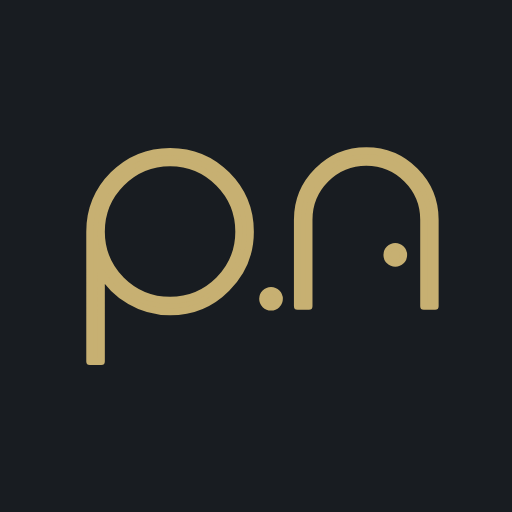
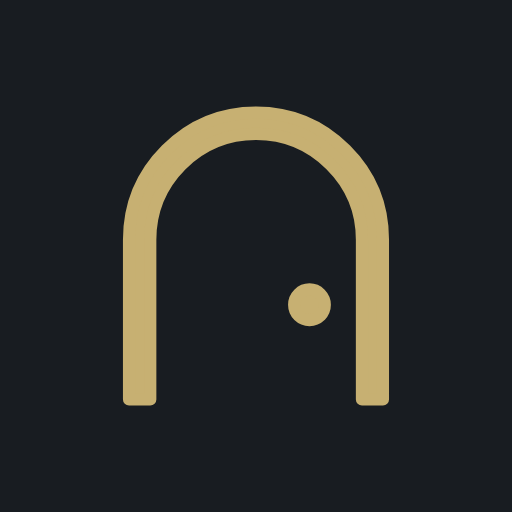
أيقونة الموقع: حرف n من الشعار
Claude-Session: https://claude.ai/code/session_016X3Uvhh873Lt3VxSacWSQ2

Changed region(s): [[0.1562, 0.1875, 0.875, 0.8125]]

diff --git a/404.html b/404.html
@@ -1,5 +1,5 @@
 <!doctype html><html lang="ar" dir="rtl"><head><meta charset=utf8><meta name=viewport content="width=device-width,initial-scale=1,viewport-fit=cover"><style>:root{color-scheme:light;box-sizing:border-box;padding-top:env(safe-area-inset-top,0px);padding-bottom:env(safe-area-inset-bottom,0px)}html{scroll-padding-top:env(safe-area-inset-top,0px)}body{margin:0;padding:0;font:14px -apple-system,BlinkMacSystemFont,sans-serif;background:#fff;color:#000}img{max-width:100%}[hidden]:not([hidden=until-found i]){display:none!important}</style></head><body>
-<base href="/"><script>try{if(sessionStorage.getItem("pn-intro"))document.documentElement.classList.add("no-intro");else sessionStorage.setItem("pn-intro","1")}catch(e){}</script><title>place.n | شقق مفروشة للإيجار اليومي</title><!--og--><meta name="description" content="✨ شقق مفروشة مصممة لتكون بيتك الثاني في بريدة. شاهد الشقق والتواريخ المتاحة واحجز عبر جاذر إن."><meta property="og:site_name" content="place.n"><meta property="og:title" content="PLACE.N | شقق مفروشة للإيجار اليومي"><meta property="og:description" content="✨ شقق مفروشة مصممة لتكون بيتك الثاني في بريدة. شاهد الشقق والتواريخ المتاحة واحجز عبر جاذر إن."><meta property="og:type" content="website"><meta property="og:url" content="https://place-n.com/"><meta property="og:image" content="https://place-n.com/og-square.jpg?v=4"><meta property="og:image:width" content="800"><meta property="og:image:height" content="800"><meta property="og:locale" content="ar_SA"><meta name="twitter:card" content="summary"><!--/og--><meta name="theme-color" content="#181C21"><link rel="icon" href="/favicon.ico?v=4" sizes="48x48"><link rel="icon" type="image/png" sizes="32x32" href="/favicon-32.png?v=4"><link rel="icon" type="image/png" sizes="96x96" href="/favicon-96.png?v=4"><link rel="icon" href="/favicon.svg?v=4" type="image/svg+xml"><link rel="apple-touch-icon" sizes="180x180" href="/apple-touch-icon.png?v=4">
+<base href="/"><script>try{if(sessionStorage.getItem("pn-intro"))document.documentElement.classList.add("no-intro");else sessionStorage.setItem("pn-intro","1")}catch(e){}</script><title>place.n | شقق مفروشة للإيجار اليومي</title><!--og--><meta name="description" content="✨ شقق مفروشة مصممة لتكون بيتك الثاني في بريدة. شاهد الشقق والتواريخ المتاحة واحجز عبر جاذر إن."><meta property="og:site_name" content="place.n"><meta property="og:title" content="PLACE.N | شقق مفروشة للإيجار اليومي"><meta property="og:description" content="✨ شقق مفروشة مصممة لتكون بيتك الثاني في بريدة. شاهد الشقق والتواريخ المتاحة واحجز عبر جاذر إن."><meta property="og:type" content="website"><meta property="og:url" content="https://place-n.com/"><meta property="og:image" content="https://place-n.com/og-square.jpg?v=4"><meta property="og:image:width" content="800"><meta property="og:image:height" content="800"><meta property="og:locale" content="ar_SA"><meta name="twitter:card" content="summary"><!--/og--><meta name="theme-color" content="#181C21"><link rel="icon" href="/favicon.ico?v=5" sizes="48x48"><link rel="icon" type="image/png" sizes="32x32" href="/favicon-32.png?v=5"><link rel="icon" type="image/png" sizes="96x96" href="/favicon-96.png?v=5"><link rel="icon" href="/favicon.svg?v=5" type="image/svg+xml"><link rel="apple-touch-icon" sizes="180x180" href="/apple-touch-icon.png?v=5">
 <meta data-src="" name="claude:viewport-fit-sides" content="cover">
 <link data-src="" rel="preconnect" href="https://fonts.googleapis.com">
 <link data-src="" rel="stylesheet" href="https://fonts.googleapis.com/css2?family=Alexandria:wght@200;300;400;500&amp;family=IBM+Plex+Sans+Arabic:wght@300;400;500;600&amp;display=swap">

diff --git a/index.html b/index.html
@@ -1,5 +1,5 @@
 <!doctype html><html lang="ar" dir="rtl"><head><meta charset=utf8><meta name=viewport content="width=device-width,initial-scale=1,viewport-fit=cover"><style>:root{color-scheme:light;box-sizing:border-box;padding-top:env(safe-area-inset-top,0px);padding-bottom:env(safe-area-inset-bottom,0px)}html{scroll-padding-top:env(safe-area-inset-top,0px)}body{margin:0;padding:0;font:14px -apple-system,BlinkMacSystemFont,sans-serif;background:#fff;color:#000}img{max-width:100%}[hidden]:not([hidden=until-found i]){display:none!important}</style></head><body>
-<base href="/"><script>try{if(sessionStorage.getItem("pn-intro"))document.documentElement.classList.add("no-intro");else sessionStorage.setItem("pn-intro","1")}catch(e){}</script><title>place.n | شقق مفروشة للإيجار اليومي</title><!--og--><meta name="description" content="✨ شقق مفروشة مصممة لتكون بيتك الثاني في بريدة. شاهد الشقق والتواريخ المتاحة واحجز عبر جاذر إن."><meta property="og:site_name" content="place.n"><meta property="og:title" content="PLACE.N | شقق مفروشة للإيجار اليومي"><meta property="og:description" content="✨ شقق مفروشة مصممة لتكون بيتك الثاني في بريدة. شاهد الشقق والتواريخ المتاحة واحجز عبر جاذر إن."><meta property="og:type" content="website"><meta property="og:url" content="https://place-n.com/"><meta property="og:image" content="https://place-n.com/og-square.jpg?v=4"><meta property="og:image:width" content="800"><meta property="og:image:height" content="800"><meta property="og:locale" content="ar_SA"><meta name="twitter:card" content="summary"><!--/og--><meta name="theme-color" content="#181C21"><link rel="icon" href="/favicon.ico?v=4" sizes="48x48"><link rel="icon" type="image/png" sizes="32x32" href="/favicon-32.png?v=4"><link rel="icon" type="image/png" sizes="96x96" href="/favicon-96.png?v=4"><link rel="icon" href="/favicon.svg?v=4" type="image/svg+xml"><link rel="apple-touch-icon" sizes="180x180" href="/apple-touch-icon.png?v=4">
+<base href="/"><script>try{if(sessionStorage.getItem("pn-intro"))document.documentElement.classList.add("no-intro");else sessionStorage.setItem("pn-intro","1")}catch(e){}</script><title>place.n | شقق مفروشة للإيجار اليومي</title><!--og--><meta name="description" content="✨ شقق مفروشة مصممة لتكون بيتك الثاني في بريدة. شاهد الشقق والتواريخ المتاحة واحجز عبر جاذر إن."><meta property="og:site_name" content="place.n"><meta property="og:title" content="PLACE.N | شقق مفروشة للإيجار اليومي"><meta property="og:description" content="✨ شقق مفروشة مصممة لتكون بيتك الثاني في بريدة. شاهد الشقق والتواريخ المتاحة واحجز عبر جاذر إن."><meta property="og:type" content="website"><meta property="og:url" content="https://place-n.com/"><meta property="og:image" content="https://place-n.com/og-square.jpg?v=4"><meta property="og:image:width" content="800"><meta property="og:image:height" content="800"><meta property="og:locale" content="ar_SA"><meta name="twitter:card" content="summary"><!--/og--><meta name="theme-color" content="#181C21"><link rel="icon" href="/favicon.ico?v=5" sizes="48x48"><link rel="icon" type="image/png" sizes="32x32" href="/favicon-32.png?v=5"><link rel="icon" type="image/png" sizes="96x96" href="/favicon-96.png?v=5"><link rel="icon" href="/favicon.svg?v=5" type="image/svg+xml"><link rel="apple-touch-icon" sizes="180x180" href="/apple-touch-icon.png?v=5">
 <meta data-src="" name="claude:viewport-fit-sides" content="cover">
 <link data-src="" rel="preconnect" href="https://fonts.googleapis.com">
 <link data-src="" rel="stylesheet" href="https://fonts.googleapis.com/css2?family=Alexandria:wght@200;300;400;500&amp;family=IBM+Plex+Sans+Arabic:wght@300;400;500;600&amp;display=swap">

diff --git a/210/index.html b/210/index.html
@@ -1,5 +1,5 @@
 <!doctype html><html lang="ar" dir="rtl"><head><meta charset=utf8><meta name=viewport content="width=device-width,initial-scale=1,viewport-fit=cover"><style>:root{color-scheme:light;box-sizing:border-box;padding-top:env(safe-area-inset-top,0px);padding-bottom:env(safe-area-inset-bottom,0px)}html{scroll-padding-top:env(safe-area-inset-top,0px)}body{margin:0;padding:0;font:14px -apple-system,BlinkMacSystemFont,sans-serif;background:#fff;color:#000}img{max-width:100%}[hidden]:not([hidden=until-found i]){display:none!important}</style></head><body>
-<base href="/"><script>try{if(sessionStorage.getItem("pn-intro"))document.documentElement.classList.add("no-intro");else sessionStorage.setItem("pn-intro","1")}catch(e){}</script><title>شقة 210 | place.n</title><!--og--><meta name="description" content="ثلاث غرف وصالة · حي الريان، بريدة · ★ 9.9 (34 تقييم) — شاهد التواريخ المتاحة واحجز عبر جاذر إن."><meta property="og:site_name" content="place.n"><meta property="og:title" content="شقة 210 | place.n"><meta property="og:description" content="ثلاث غرف وصالة · حي الريان، بريدة · ★ 9.9 (34 تقييم) — شاهد التواريخ المتاحة واحجز عبر جاذر إن."><meta property="og:type" content="website"><meta property="og:url" content="https://place-n.com/210"><meta property="og:image" content="https://place-n.com/og/210.jpg?v=3"><meta property="og:image:width" content="800"><meta property="og:image:height" content="800"><meta property="og:locale" content="ar_SA"><meta name="twitter:card" content="summary"><link rel="canonical" href="https://place-n.com/210"><!--/og--><meta name="theme-color" content="#181C21"><link rel="icon" href="/favicon.ico?v=4" sizes="48x48"><link rel="icon" type="image/png" sizes="32x32" href="/favicon-32.png?v=4"><link rel="icon" type="image/png" sizes="96x96" href="/favicon-96.png?v=4"><link rel="icon" href="/favicon.svg?v=4" type="image/svg+xml"><link rel="apple-touch-icon" sizes="180x180" href="/apple-touch-icon.png?v=4">
+<base href="/"><script>try{if(sessionStorage.getItem("pn-intro"))document.documentElement.classList.add("no-intro");else sessionStorage.setItem("pn-intro","1")}catch(e){}</script><title>شقة 210 | place.n</title><!--og--><meta name="description" content="ثلاث غرف وصالة · حي الريان، بريدة · ★ 9.9 (34 تقييم) — شاهد التواريخ المتاحة واحجز عبر جاذر إن."><meta property="og:site_name" content="place.n"><meta property="og:title" content="شقة 210 | place.n"><meta property="og:description" content="ثلاث غرف وصالة · حي الريان، بريدة · ★ 9.9 (34 تقييم) — شاهد التواريخ المتاحة واحجز عبر جاذر إن."><meta property="og:type" content="website"><meta property="og:url" content="https://place-n.com/210"><meta property="og:image" content="https://place-n.com/og/210.jpg?v=3"><meta property="og:image:width" content="800"><meta property="og:image:height" content="800"><meta property="og:locale" content="ar_SA"><meta name="twitter:card" content="summary"><link rel="canonical" href="https://place-n.com/210"><!--/og--><meta name="theme-color" content="#181C21"><link rel="icon" href="/favicon.ico?v=5" sizes="48x48"><link rel="icon" type="image/png" sizes="32x32" href="/favicon-32.png?v=5"><link rel="icon" type="image/png" sizes="96x96" href="/favicon-96.png?v=5"><link rel="icon" href="/favicon.svg?v=5" type="image/svg+xml"><link rel="apple-touch-icon" sizes="180x180" href="/apple-touch-icon.png?v=5">
 <meta data-src="" name="claude:viewport-fit-sides" content="cover">
 <link data-src="" rel="preconnect" href="https://fonts.googleapis.com">
 <link data-src="" rel="stylesheet" href="https://fonts.googleapis.com/css2?family=Alexandria:wght@200;300;400;500&amp;family=IBM+Plex+Sans+Arabic:wght@300;400;500;600&amp;display=swap">

diff --git a/211/index.html b/211/index.html
@@ -1,5 +1,5 @@
 <!doctype html><html lang="ar" dir="rtl"><head><meta charset=utf8><meta name=viewport content="width=device-width,initial-scale=1,viewport-fit=cover"><style>:root{color-scheme:light;box-sizing:border-box;padding-top:env(safe-area-inset-top,0px);padding-bottom:env(safe-area-inset-bottom,0px)}html{scroll-padding-top:env(safe-area-inset-top,0px)}body{margin:0;padding:0;font:14px -apple-system,BlinkMacSystemFont,sans-serif;background:#fff;color:#000}img{max-width:100%}[hidden]:not([hidden=until-found i]){display:none!important}</style></head><body>
-<base href="/"><script>try{if(sessionStorage.getItem("pn-intro"))document.documentElement.classList.add("no-intro");else sessionStorage.setItem("pn-intro","1")}catch(e){}</script><title>شقة 211 | place.n</title><!--og--><meta name="description" content="ثلاث غرف وصالة · حي الريان، بريدة · ★ 10 (15 تقييم) — شاهد التواريخ المتاحة واحجز عبر جاذر إن."><meta property="og:site_name" content="place.n"><meta property="og:title" content="شقة 211 | place.n"><meta property="og:description" content="ثلاث غرف وصالة · حي الريان، بريدة · ★ 10 (15 تقييم) — شاهد التواريخ المتاحة واحجز عبر جاذر إن."><meta property="og:type" content="website"><meta property="og:url" content="https://place-n.com/211"><meta property="og:image" content="https://place-n.com/og/211.jpg?v=3"><meta property="og:image:width" content="800"><meta property="og:image:height" content="800"><meta property="og:locale" content="ar_SA"><meta name="twitter:card" content="summary"><link rel="canonical" href="https://place-n.com/211"><!--/og--><meta name="theme-color" content="#181C21"><link rel="icon" href="/favicon.ico?v=4" sizes="48x48"><link rel="icon" type="image/png" sizes="32x32" href="/favicon-32.png?v=4"><link rel="icon" type="image/png" sizes="96x96" href="/favicon-96.png?v=4"><link rel="icon" href="/favicon.svg?v=4" type="image/svg+xml"><link rel="apple-touch-icon" sizes="180x180" href="/apple-touch-icon.png?v=4">
+<base href="/"><script>try{if(sessionStorage.getItem("pn-intro"))document.documentElement.classList.add("no-intro");else sessionStorage.setItem("pn-intro","1")}catch(e){}</script><title>شقة 211 | place.n</title><!--og--><meta name="description" content="ثلاث غرف وصالة · حي الريان، بريدة · ★ 10 (15 تقييم) — شاهد التواريخ المتاحة واحجز عبر جاذر إن."><meta property="og:site_name" content="place.n"><meta property="og:title" content="شقة 211 | place.n"><meta property="og:description" content="ثلاث غرف وصالة · حي الريان، بريدة · ★ 10 (15 تقييم) — شاهد التواريخ المتاحة واحجز عبر جاذر إن."><meta property="og:type" content="website"><meta property="og:url" content="https://place-n.com/211"><meta property="og:image" content="https://place-n.com/og/211.jpg?v=3"><meta property="og:image:width" content="800"><meta property="og:image:height" content="800"><meta property="og:locale" content="ar_SA"><meta name="twitter:card" content="summary"><link rel="canonical" href="https://place-n.com/211"><!--/og--><meta name="theme-color" content="#181C21"><link rel="icon" href="/favicon.ico?v=5" sizes="48x48"><link rel="icon" type="image/png" sizes="32x32" href="/favicon-32.png?v=5"><link rel="icon" type="image/png" sizes="96x96" href="/favicon-96.png?v=5"><link rel="icon" href="/favicon.svg?v=5" type="image/svg+xml"><link rel="apple-touch-icon" sizes="180x180" href="/apple-touch-icon.png?v=5">
 <meta data-src="" name="claude:viewport-fit-sides" content="cover">
 <link data-src="" rel="preconnect" href="https://fonts.googleapis.com">
 <link data-src="" rel="stylesheet" href="https://fonts.googleapis.com/css2?family=Alexandria:wght@200;300;400;500&amp;family=IBM+Plex+Sans+Arabic:wght@300;400;500;600&amp;display=swap">

diff --git a/312/index.html b/312/index.html
@@ -1,5 +1,5 @@
 <!doctype html><html lang="ar" dir="rtl"><head><meta charset=utf8><meta name=viewport content="width=device-width,initial-scale=1,viewport-fit=cover"><style>:root{color-scheme:light;box-sizing:border-box;padding-top:env(safe-area-inset-top,0px);padding-bottom:env(safe-area-inset-bottom,0px)}html{scroll-padding-top:env(safe-area-inset-top,0px)}body{margin:0;padding:0;font:14px -apple-system,BlinkMacSystemFont,sans-serif;background:#fff;color:#000}img{max-width:100%}[hidden]:not([hidden=until-found i]){display:none!important}</style></head><body>
-<base href="/"><script>try{if(sessionStorage.getItem("pn-intro"))document.documentElement.classList.add("no-intro");else sessionStorage.setItem("pn-intro","1")}catch(e){}</script><title>شقة 312 | place.n</title><!--og--><meta name="description" content="ثلاث غرف وصالة · حي الريان، بريدة · ★ 10 (24 تقييم) — شاهد التواريخ المتاحة واحجز عبر جاذر إن."><meta property="og:site_name" content="place.n"><meta property="og:title" content="شقة 312 | place.n"><meta property="og:description" content="ثلاث غرف وصالة · حي الريان، بريدة · ★ 10 (24 تقييم) — شاهد التواريخ المتاحة واحجز عبر جاذر إن."><meta property="og:type" content="website"><meta property="og:url" content="https://place-n.com/312"><meta property="og:image" content="https://place-n.com/og/312.jpg?v=3"><meta property="og:image:width" content="800"><meta property="og:image:height" content="800"><meta property="og:locale" content="ar_SA"><meta name="twitter:card" content="summary"><link rel="canonical" href="https://place-n.com/312"><!--/og--><meta name="theme-color" content="#181C21"><link rel="icon" href="/favicon.ico?v=4" sizes="48x48"><link rel="icon" type="image/png" sizes="32x32" href="/favicon-32.png?v=4"><link rel="icon" type="image/png" sizes="96x96" href="/favicon-96.png?v=4"><link rel="icon" href="/favicon.svg?v=4" type="image/svg+xml"><link rel="apple-touch-icon" sizes="180x180" href="/apple-touch-icon.png?v=4">
+<base href="/"><script>try{if(sessionStorage.getItem("pn-intro"))document.documentElement.classList.add("no-intro");else sessionStorage.setItem("pn-intro","1")}catch(e){}</script><title>شقة 312 | place.n</title><!--og--><meta name="description" content="ثلاث غرف وصالة · حي الريان، بريدة · ★ 10 (24 تقييم) — شاهد التواريخ المتاحة واحجز عبر جاذر إن."><meta property="og:site_name" content="place.n"><meta property="og:title" content="شقة 312 | place.n"><meta property="og:description" content="ثلاث غرف وصالة · حي الريان، بريدة · ★ 10 (24 تقييم) — شاهد التواريخ المتاحة واحجز عبر جاذر إن."><meta property="og:type" content="website"><meta property="og:url" content="https://place-n.com/312"><meta property="og:image" content="https://place-n.com/og/312.jpg?v=3"><meta property="og:image:width" content="800"><meta property="og:image:height" content="800"><meta property="og:locale" content="ar_SA"><meta name="twitter:card" content="summary"><link rel="canonical" href="https://place-n.com/312"><!--/og--><meta name="theme-color" content="#181C21"><link rel="icon" href="/favicon.ico?v=5" sizes="48x48"><link rel="icon" type="image/png" sizes="32x32" href="/favicon-32.png?v=5"><link rel="icon" type="image/png" sizes="96x96" href="/favicon-96.png?v=5"><link rel="icon" href="/favicon.svg?v=5" type="image/svg+xml"><link rel="apple-touch-icon" sizes="180x180" href="/apple-touch-icon.png?v=5">
 <meta data-src="" name="claude:viewport-fit-sides" content="cover">
 <link data-src="" rel="preconnect" href="https://fonts.googleapis.com">
 <link data-src="" rel="stylesheet" href="https://fonts.googleapis.com/css2?family=Alexandria:wght@200;300;400;500&amp;family=IBM+Plex+Sans+Arabic:wght@300;400;500;600&amp;display=swap">

diff --git a/107/index.html b/107/index.html
@@ -1,5 +1,5 @@
 <!doctype html><html lang="ar" dir="rtl"><head><meta charset=utf8><meta name=viewport content="width=device-width,initial-scale=1,viewport-fit=cover"><style>:root{color-scheme:light;box-sizing:border-box;padding-top:env(safe-area-inset-top,0px);padding-bottom:env(safe-area-inset-bottom,0px)}html{scroll-padding-top:env(safe-area-inset-top,0px)}body{margin:0;padding:0;font:14px -apple-system,BlinkMacSystemFont,sans-serif;background:#fff;color:#000}img{max-width:100%}[hidden]:not([hidden=until-found i]){display:none!important}</style></head><body>
-<base href="/"><script>try{if(sessionStorage.getItem("pn-intro"))document.documentElement.classList.add("no-intro");else sessionStorage.setItem("pn-intro","1")}catch(e){}</script><title>شقة 107 | place.n</title><!--og--><meta name="description" content="ثلاث غرف وصالة · حي الريان، بريدة · ★ 10 (4 تقييم) — شاهد التواريخ المتاحة واحجز عبر جاذر إن."><meta property="og:site_name" content="place.n"><meta property="og:title" content="شقة 107 | place.n"><meta property="og:description" content="ثلاث غرف وصالة · حي الريان، بريدة · ★ 10 (4 تقييم) — شاهد التواريخ المتاحة واحجز عبر جاذر إن."><meta property="og:type" content="website"><meta property="og:url" content="https://place-n.com/107"><meta property="og:image" content="https://place-n.com/og/107.jpg?v=3"><meta property="og:image:width" content="800"><meta property="og:image:height" content="800"><meta property="og:locale" content="ar_SA"><meta name="twitter:card" content="summary"><link rel="canonical" href="https://place-n.com/107"><!--/og--><meta name="theme-color" content="#181C21"><link rel="icon" href="/favicon.ico?v=4" sizes="48x48"><link rel="icon" type="image/png" sizes="32x32" href="/favicon-32.png?v=4"><link rel="icon" type="image/png" sizes="96x96" href="/favicon-96.png?v=4"><link rel="icon" href="/favicon.svg?v=4" type="image/svg+xml"><link rel="apple-touch-icon" sizes="180x180" href="/apple-touch-icon.png?v=4">
+<base href="/"><script>try{if(sessionStorage.getItem("pn-intro"))document.documentElement.classList.add("no-intro");else sessionStorage.setItem("pn-intro","1")}catch(e){}</script><title>شقة 107 | place.n</title><!--og--><meta name="description" content="ثلاث غرف وصالة · حي الريان، بريدة · ★ 10 (4 تقييم) — شاهد التواريخ المتاحة واحجز عبر جاذر إن."><meta property="og:site_name" content="place.n"><meta property="og:title" content="شقة 107 | place.n"><meta property="og:description" content="ثلاث غرف وصالة · حي الريان، بريدة · ★ 10 (4 تقييم) — شاهد التواريخ المتاحة واحجز عبر جاذر إن."><meta property="og:type" content="website"><meta property="og:url" content="https://place-n.com/107"><meta property="og:image" content="https://place-n.com/og/107.jpg?v=3"><meta property="og:image:width" content="800"><meta property="og:image:height" content="800"><meta property="og:locale" content="ar_SA"><meta name="twitter:card" content="summary"><link rel="canonical" href="https://place-n.com/107"><!--/og--><meta name="theme-color" content="#181C21"><link rel="icon" href="/favicon.ico?v=5" sizes="48x48"><link rel="icon" type="image/png" sizes="32x32" href="/favicon-32.png?v=5"><link rel="icon" type="image/png" sizes="96x96" href="/favicon-96.png?v=5"><link rel="icon" href="/favicon.svg?v=5" type="image/svg+xml"><link rel="apple-touch-icon" sizes="180x180" href="/apple-touch-icon.png?v=5">
 <meta data-src="" name="claude:viewport-fit-sides" content="cover">
 <link data-src="" rel="preconnect" href="https://fonts.googleapis.com">
 <link data-src="" rel="stylesheet" href="https://fonts.googleapis.com/css2?family=Alexandria:wght@200;300;400;500&amp;family=IBM+Plex+Sans+Arabic:wght@300;400;500;600&amp;display=swap">

diff --git a/204/index.html b/204/index.html
@@ -1,5 +1,5 @@
 <!doctype html><html lang="ar" dir="rtl"><head><meta charset=utf8><meta name=viewport content="width=device-width,initial-scale=1,viewport-fit=cover"><style>:root{color-scheme:light;box-sizing:border-box;padding-top:env(safe-area-inset-top,0px);padding-bottom:env(safe-area-inset-bottom,0px)}html{scroll-padding-top:env(safe-area-inset-top,0px)}body{margin:0;padding:0;font:14px -apple-system,BlinkMacSystemFont,sans-serif;background:#fff;color:#000}img{max-width:100%}[hidden]:not([hidden=until-found i]){display:none!important}</style></head><body>
-<base href="/"><script>try{if(sessionStorage.getItem("pn-intro"))document.documentElement.classList.add("no-intro");else sessionStorage.setItem("pn-intro","1")}catch(e){}</script><title>شقة 204 | place.n</title><!--og--><meta name="description" content="غرفة وصالة · حي السلطانة، بريدة · ★ 9.9 (103 تقييم) — شاهد التواريخ المتاحة واحجز عبر جاذر إن."><meta property="og:site_name" content="place.n"><meta property="og:title" content="شقة 204 | place.n"><meta property="og:description" content="غرفة وصالة · حي السلطانة، بريدة · ★ 9.9 (103 تقييم) — شاهد التواريخ المتاحة واحجز عبر جاذر إن."><meta property="og:type" content="website"><meta property="og:url" content="https://place-n.com/204"><meta property="og:image" content="https://place-n.com/og/204.jpg?v=3"><meta property="og:image:width" content="800"><meta property="og:image:height" content="800"><meta property="og:locale" content="ar_SA"><meta name="twitter:card" content="summary"><link rel="canonical" href="https://place-n.com/204"><!--/og--><meta name="theme-color" content="#181C21"><link rel="icon" href="/favicon.ico?v=4" sizes="48x48"><link rel="icon" type="image/png" sizes="32x32" href="/favicon-32.png?v=4"><link rel="icon" type="image/png" sizes="96x96" href="/favicon-96.png?v=4"><link rel="icon" href="/favicon.svg?v=4" type="image/svg+xml"><link rel="apple-touch-icon" sizes="180x180" href="/apple-touch-icon.png?v=4">
+<base href="/"><script>try{if(sessionStorage.getItem("pn-intro"))document.documentElement.classList.add("no-intro");else sessionStorage.setItem("pn-intro","1")}catch(e){}</script><title>شقة 204 | place.n</title><!--og--><meta name="description" content="غرفة وصالة · حي السلطانة، بريدة · ★ 9.9 (103 تقييم) — شاهد التواريخ المتاحة واحجز عبر جاذر إن."><meta property="og:site_name" content="place.n"><meta property="og:title" content="شقة 204 | place.n"><meta property="og:description" content="غرفة وصالة · حي السلطانة، بريدة · ★ 9.9 (103 تقييم) — شاهد التواريخ المتاحة واحجز عبر جاذر إن."><meta property="og:type" content="website"><meta property="og:url" content="https://place-n.com/204"><meta property="og:image" content="https://place-n.com/og/204.jpg?v=3"><meta property="og:image:width" content="800"><meta property="og:image:height" content="800"><meta property="og:locale" content="ar_SA"><meta name="twitter:card" content="summary"><link rel="canonical" href="https://place-n.com/204"><!--/og--><meta name="theme-color" content="#181C21"><link rel="icon" href="/favicon.ico?v=5" sizes="48x48"><link rel="icon" type="image/png" sizes="32x32" href="/favicon-32.png?v=5"><link rel="icon" type="image/png" sizes="96x96" href="/favicon-96.png?v=5"><link rel="icon" href="/favicon.svg?v=5" type="image/svg+xml"><link rel="apple-touch-icon" sizes="180x180" href="/apple-touch-icon.png?v=5">
 <meta data-src="" name="claude:viewport-fit-sides" content="cover">
 <link data-src="" rel="preconnect" href="https://fonts.googleapis.com">
 <link data-src="" rel="stylesheet" href="https://fonts.googleapis.com/css2?family=Alexandria:wght@200;300;400;500&amp;family=IBM+Plex+Sans+Arabic:wght@300;400;500;600&amp;display=swap">

diff --git a/004/index.html b/004/index.html
@@ -1,5 +1,5 @@
 <!doctype html><html lang="ar" dir="rtl"><head><meta charset=utf8><meta name=viewport content="width=device-width,initial-scale=1,viewport-fit=cover"><style>:root{color-scheme:light;box-sizing:border-box;padding-top:env(safe-area-inset-top,0px);padding-bottom:env(safe-area-inset-bottom,0px)}html{scroll-padding-top:env(safe-area-inset-top,0px)}body{margin:0;padding:0;font:14px -apple-system,BlinkMacSystemFont,sans-serif;background:#fff;color:#000}img{max-width:100%}[hidden]:not([hidden=until-found i]){display:none!important}</style></head><body>
-<base href="/"><script>try{if(sessionStorage.getItem("pn-intro"))document.documentElement.classList.add("no-intro");else sessionStorage.setItem("pn-intro","1")}catch(e){}</script><title>شقة 004 | place.n</title><!--og--><meta name="description" content="غرفتين وصالة · حي الريان، بريدة · ★ 9.8 (61 تقييم) — شاهد التواريخ المتاحة واحجز عبر جاذر إن."><meta property="og:site_name" content="place.n"><meta property="og:title" content="شقة 004 | place.n"><meta property="og:description" content="غرفتين وصالة · حي الريان، بريدة · ★ 9.8 (61 تقييم) — شاهد التواريخ المتاحة واحجز عبر جاذر إن."><meta property="og:type" content="website"><meta property="og:url" content="https://place-n.com/004"><meta property="og:image" content="https://place-n.com/og/004.jpg?v=3"><meta property="og:image:width" content="800"><meta property="og:image:height" content="800"><meta property="og:locale" content="ar_SA"><meta name="twitter:card" content="summary"><link rel="canonical" href="https://place-n.com/004"><!--/og--><meta name="theme-color" content="#181C21"><link rel="icon" href="/favicon.ico?v=4" sizes="48x48"><link rel="icon" type="image/png" sizes="32x32" href="/favicon-32.png?v=4"><link rel="icon" type="image/png" sizes="96x96" href="/favicon-96.png?v=4"><link rel="icon" href="/favicon.svg?v=4" type="image/svg+xml"><link rel="apple-touch-icon" sizes="180x180" href="/apple-touch-icon.png?v=4">
+<base href="/"><script>try{if(sessionStorage.getItem("pn-intro"))document.documentElement.classList.add("no-intro");else sessionStorage.setItem("pn-intro","1")}catch(e){}</script><title>شقة 004 | place.n</title><!--og--><meta name="description" content="غرفتين وصالة · حي الريان، بريدة · ★ 9.8 (61 تقييم) — شاهد التواريخ المتاحة واحجز عبر جاذر إن."><meta property="og:site_name" content="place.n"><meta property="og:title" content="شقة 004 | place.n"><meta property="og:description" content="غرفتين وصالة · حي الريان، بريدة · ★ 9.8 (61 تقييم) — شاهد التواريخ المتاحة واحجز عبر جاذر إن."><meta property="og:type" content="website"><meta property="og:url" content="https://place-n.com/004"><meta property="og:image" content="https://place-n.com/og/004.jpg?v=3"><meta property="og:image:width" content="800"><meta property="og:image:height" content="800"><meta property="og:locale" content="ar_SA"><meta name="twitter:card" content="summary"><link rel="canonical" href="https://place-n.com/004"><!--/og--><meta name="theme-color" content="#181C21"><link rel="icon" href="/favicon.ico?v=5" sizes="48x48"><link rel="icon" type="image/png" sizes="32x32" href="/favicon-32.png?v=5"><link rel="icon" type="image/png" sizes="96x96" href="/favicon-96.png?v=5"><link rel="icon" href="/favicon.svg?v=5" type="image/svg+xml"><link rel="apple-touch-icon" sizes="180x180" href="/apple-touch-icon.png?v=5">
 <meta data-src="" name="claude:viewport-fit-sides" content="cover">
 <link data-src="" rel="preconnect" href="https://fonts.googleapis.com">
 <link data-src="" rel="stylesheet" href="https://fonts.googleapis.com/css2?family=Alexandria:wght@200;300;400;500&amp;family=IBM+Plex+Sans+Arabic:wght@300;400;500;600&amp;display=swap">

diff --git a/106/index.html b/106/index.html
@@ -1,5 +1,5 @@
 <!doctype html><html lang="ar" dir="rtl"><head><meta charset=utf8><meta name=viewport content="width=device-width,initial-scale=1,viewport-fit=cover"><style>:root{color-scheme:light;box-sizing:border-box;padding-top:env(safe-area-inset-top,0px);padding-bottom:env(safe-area-inset-bottom,0px)}html{scroll-padding-top:env(safe-area-inset-top,0px)}body{margin:0;padding:0;font:14px -apple-system,BlinkMacSystemFont,sans-serif;background:#fff;color:#000}img{max-width:100%}[hidden]:not([hidden=until-found i]){display:none!important}</style></head><body>
-<base href="/"><script>try{if(sessionStorage.getItem("pn-intro"))document.documentElement.classList.add("no-intro");else sessionStorage.setItem("pn-intro","1")}catch(e){}</script><title>شقة 106 | place.n</title><!--og--><meta name="description" content="غرفتين وصالة · حي الريان، بريدة · ★ 9.8 (97 تقييم) — شاهد التواريخ المتاحة واحجز عبر جاذر إن."><meta property="og:site_name" content="place.n"><meta property="og:title" content="شقة 106 | place.n"><meta property="og:description" content="غرفتين وصالة · حي الريان، بريدة · ★ 9.8 (97 تقييم) — شاهد التواريخ المتاحة واحجز عبر جاذر إن."><meta property="og:type" content="website"><meta property="og:url" content="https://place-n.com/106"><meta property="og:image" content="https://place-n.com/og/106.jpg?v=3"><meta property="og:image:width" content="800"><meta property="og:image:height" content="800"><meta property="og:locale" content="ar_SA"><meta name="twitter:card" content="summary"><link rel="canonical" href="https://place-n.com/106"><!--/og--><meta name="theme-color" content="#181C21"><link rel="icon" href="/favicon.ico?v=4" sizes="48x48"><link rel="icon" type="image/png" sizes="32x32" href="/favicon-32.png?v=4"><link rel="icon" type="image/png" sizes="96x96" href="/favicon-96.png?v=4"><link rel="icon" href="/favicon.svg?v=4" type="image/svg+xml"><link rel="apple-touch-icon" sizes="180x180" href="/apple-touch-icon.png?v=4">
+<base href="/"><script>try{if(sessionStorage.getItem("pn-intro"))document.documentElement.classList.add("no-intro");else sessionStorage.setItem("pn-intro","1")}catch(e){}</script><title>شقة 106 | place.n</title><!--og--><meta name="description" content="غرفتين وصالة · حي الريان، بريدة · ★ 9.8 (97 تقييم) — شاهد التواريخ المتاحة واحجز عبر جاذر إن."><meta property="og:site_name" content="place.n"><meta property="og:title" content="شقة 106 | place.n"><meta property="og:description" content="غرفتين وصالة · حي الريان، بريدة · ★ 9.8 (97 تقييم) — شاهد التواريخ المتاحة واحجز عبر جاذر إن."><meta property="og:type" content="website"><meta property="og:url" content="https://place-n.com/106"><meta property="og:image" content="https://place-n.com/og/106.jpg?v=3"><meta property="og:image:width" content="800"><meta property="og:image:height" content="800"><meta property="og:locale" content="ar_SA"><meta name="twitter:card" content="summary"><link rel="canonical" href="https://place-n.com/106"><!--/og--><meta name="theme-color" content="#181C21"><link rel="icon" href="/favicon.ico?v=5" sizes="48x48"><link rel="icon" type="image/png" sizes="32x32" href="/favicon-32.png?v=5"><link rel="icon" type="image/png" sizes="96x96" href="/favicon-96.png?v=5"><link rel="icon" href="/favicon.svg?v=5" type="image/svg+xml"><link rel="apple-touch-icon" sizes="180x180" href="/apple-touch-icon.png?v=5">
 <meta data-src="" name="claude:viewport-fit-sides" content="cover">
 <link data-src="" rel="preconnect" href="https://fonts.googleapis.com">
 <link data-src="" rel="stylesheet" href="https://fonts.googleapis.com/css2?family=Alexandria:wght@200;300;400;500&amp;family=IBM+Plex+Sans+Arabic:wght@300;400;500;600&amp;display=swap">

diff --git a/206/index.html b/206/index.html
@@ -1,5 +1,5 @@
 <!doctype html><html lang="ar" dir="rtl"><head><meta charset=utf8><meta name=viewport content="width=device-width,initial-scale=1,viewport-fit=cover"><style>:root{color-scheme:light;box-sizing:border-box;padding-top:env(safe-area-inset-top,0px);padding-bottom:env(safe-area-inset-bottom,0px)}html{scroll-padding-top:env(safe-area-inset-top,0px)}body{margin:0;padding:0;font:14px -apple-system,BlinkMacSystemFont,sans-serif;background:#fff;color:#000}img{max-width:100%}[hidden]:not([hidden=until-found i]){display:none!important}</style></head><body>
-<base href="/"><script>try{if(sessionStorage.getItem("pn-intro"))document.documentElement.classList.add("no-intro");else sessionStorage.setItem("pn-intro","1")}catch(e){}</script><title>شقة 206 | place.n</title><!--og--><meta name="description" content="غرفة وصالة · حي السلطانة، بريدة · ★ 9.9 (69 تقييم) — شاهد التواريخ المتاحة واحجز عبر جاذر إن."><meta property="og:site_name" content="place.n"><meta property="og:title" content="شقة 206 | place.n"><meta property="og:description" content="غرفة وصالة · حي السلطانة، بريدة · ★ 9.9 (69 تقييم) — شاهد التواريخ المتاحة واحجز عبر جاذر إن."><meta property="og:type" content="website"><meta property="og:url" content="https://place-n.com/206"><meta property="og:image" content="https://place-n.com/og/206.jpg?v=3"><meta property="og:image:width" content="800"><meta property="og:image:height" content="800"><meta property="og:locale" content="ar_SA"><meta name="twitter:card" content="summary"><link rel="canonical" href="https://place-n.com/206"><!--/og--><meta name="theme-color" content="#181C21"><link rel="icon" href="/favicon.ico?v=4" sizes="48x48"><link rel="icon" type="image/png" sizes="32x32" href="/favicon-32.png?v=4"><link rel="icon" type="image/png" sizes="96x96" href="/favicon-96.png?v=4"><link rel="icon" href="/favicon.svg?v=4" type="image/svg+xml"><link rel="apple-touch-icon" sizes="180x180" href="/apple-touch-icon.png?v=4">
+<base href="/"><script>try{if(sessionStorage.getItem("pn-intro"))document.documentElement.classList.add("no-intro");else sessionStorage.setItem("pn-intro","1")}catch(e){}</script><title>شقة 206 | place.n</title><!--og--><meta name="description" content="غرفة وصالة · حي السلطانة، بريدة · ★ 9.9 (69 تقييم) — شاهد التواريخ المتاحة واحجز عبر جاذر إن."><meta property="og:site_name" content="place.n"><meta property="og:title" content="شقة 206 | place.n"><meta property="og:description" content="غرفة وصالة · حي السلطانة، بريدة · ★ 9.9 (69 تقييم) — شاهد التواريخ المتاحة واحجز عبر جاذر إن."><meta property="og:type" content="website"><meta property="og:url" content="https://place-n.com/206"><meta property="og:image" content="https://place-n.com/og/206.jpg?v=3"><meta property="og:image:width" content="800"><meta property="og:image:height" content="800"><meta property="og:locale" content="ar_SA"><meta name="twitter:card" content="summary"><link rel="canonical" href="https://place-n.com/206"><!--/og--><meta name="theme-color" content="#181C21"><link rel="icon" href="/favicon.ico?v=5" sizes="48x48"><link rel="icon" type="image/png" sizes="32x32" href="/favicon-32.png?v=5"><link rel="icon" type="image/png" sizes="96x96" href="/favicon-96.png?v=5"><link rel="icon" href="/favicon.svg?v=5" type="image/svg+xml"><link rel="apple-touch-icon" sizes="180x180" href="/apple-touch-icon.png?v=5">
 <meta data-src="" name="claude:viewport-fit-sides" content="cover">
 <link data-src="" rel="preconnect" href="https://fonts.googleapis.com">
 <link data-src="" rel="stylesheet" href="https://fonts.googleapis.com/css2?family=Alexandria:wght@200;300;400;500&amp;family=IBM+Plex+Sans+Arabic:wght@300;400;500;600&amp;display=swap">

diff --git a/203/index.html b/203/index.html
@@ -1,5 +1,5 @@
 <!doctype html><html lang="ar" dir="rtl"><head><meta charset=utf8><meta name=viewport content="width=device-width,initial-scale=1,viewport-fit=cover"><style>:root{color-scheme:light;box-sizing:border-box;padding-top:env(safe-area-inset-top,0px);padding-bottom:env(safe-area-inset-bottom,0px)}html{scroll-padding-top:env(safe-area-inset-top,0px)}body{margin:0;padding:0;font:14px -apple-system,BlinkMacSystemFont,sans-serif;background:#fff;color:#000}img{max-width:100%}[hidden]:not([hidden=until-found i]){display:none!important}</style></head><body>
-<base href="/"><script>try{if(sessionStorage.getItem("pn-intro"))document.documentElement.classList.add("no-intro");else sessionStorage.setItem("pn-intro","1")}catch(e){}</script><title>شقة 203 | place.n</title><!--og--><meta name="description" content="غرفة وصالة · حي السلطانة، بريدة · ★ 10 (56 تقييم) — شاهد التواريخ المتاحة واحجز عبر جاذر إن."><meta property="og:site_name" content="place.n"><meta property="og:title" content="شقة 203 | place.n"><meta property="og:description" content="غرفة وصالة · حي السلطانة، بريدة · ★ 10 (56 تقييم) — شاهد التواريخ المتاحة واحجز عبر جاذر إن."><meta property="og:type" content="website"><meta property="og:url" content="https://place-n.com/203"><meta property="og:image" content="https://place-n.com/og/203.jpg?v=3"><meta property="og:image:width" content="800"><meta property="og:image:height" content="800"><meta property="og:locale" content="ar_SA"><meta name="twitter:card" content="summary"><link rel="canonical" href="https://place-n.com/203"><!--/og--><meta name="theme-color" content="#181C21"><link rel="icon" href="/favicon.ico?v=4" sizes="48x48"><link rel="icon" type="image/png" sizes="32x32" href="/favicon-32.png?v=4"><link rel="icon" type="image/png" sizes="96x96" href="/favicon-96.png?v=4"><link rel="icon" href="/favicon.svg?v=4" type="image/svg+xml"><link rel="apple-touch-icon" sizes="180x180" href="/apple-touch-icon.png?v=4">
+<base href="/"><script>try{if(sessionStorage.getItem("pn-intro"))document.documentElement.classList.add("no-intro");else sessionStorage.setItem("pn-intro","1")}catch(e){}</script><title>شقة 203 | place.n</title><!--og--><meta name="description" content="غرفة وصالة · حي السلطانة، بريدة · ★ 10 (56 تقييم) — شاهد التواريخ المتاحة واحجز عبر جاذر إن."><meta property="og:site_name" content="place.n"><meta property="og:title" content="شقة 203 | place.n"><meta property="og:description" content="غرفة وصالة · حي السلطانة، بريدة · ★ 10 (56 تقييم) — شاهد التواريخ المتاحة واحجز عبر جاذر إن."><meta property="og:type" content="website"><meta property="og:url" content="https://place-n.com/203"><meta property="og:image" content="https://place-n.com/og/203.jpg?v=3"><meta property="og:image:width" content="800"><meta property="og:image:height" content="800"><meta property="og:locale" content="ar_SA"><meta name="twitter:card" content="summary"><link rel="canonical" href="https://place-n.com/203"><!--/og--><meta name="theme-color" content="#181C21"><link rel="icon" href="/favicon.ico?v=5" sizes="48x48"><link rel="icon" type="image/png" sizes="32x32" href="/favicon-32.png?v=5"><link rel="icon" type="image/png" sizes="96x96" href="/favicon-96.png?v=5"><link rel="icon" href="/favicon.svg?v=5" type="image/svg+xml"><link rel="apple-touch-icon" sizes="180x180" href="/apple-touch-icon.png?v=5">
 <meta data-src="" name="claude:viewport-fit-sides" content="cover">
 <link data-src="" rel="preconnect" href="https://fonts.googleapis.com">
 <link data-src="" rel="stylesheet" href="https://fonts.googleapis.com/css2?family=Alexandria:wght@200;300;400;500&amp;family=IBM+Plex+Sans+Arabic:wght@300;400;500;600&amp;display=swap">

diff --git a/205/index.html b/205/index.html
@@ -1,5 +1,5 @@
 <!doctype html><html lang="ar" dir="rtl"><head><meta charset=utf8><meta name=viewport content="width=device-width,initial-scale=1,viewport-fit=cover"><style>:root{color-scheme:light;box-sizing:border-box;padding-top:env(safe-area-inset-top,0px);padding-bottom:env(safe-area-inset-bottom,0px)}html{scroll-padding-top:env(safe-area-inset-top,0px)}body{margin:0;padding:0;font:14px -apple-system,BlinkMacSystemFont,sans-serif;background:#fff;color:#000}img{max-width:100%}[hidden]:not([hidden=until-found i]){display:none!important}</style></head><body>
-<base href="/"><script>try{if(sessionStorage.getItem("pn-intro"))document.documentElement.classList.add("no-intro");else sessionStorage.setItem("pn-intro","1")}catch(e){}</script><title>شقة 205 | place.n</title><!--og--><meta name="description" content="غرفة وصالة · حي السلطانة، بريدة · ★ 10 (48 تقييم) — شاهد التواريخ المتاحة واحجز عبر جاذر إن."><meta property="og:site_name" content="place.n"><meta property="og:title" content="شقة 205 | place.n"><meta property="og:description" content="غرفة وصالة · حي السلطانة، بريدة · ★ 10 (48 تقييم) — شاهد التواريخ المتاحة واحجز عبر جاذر إن."><meta property="og:type" content="website"><meta property="og:url" content="https://place-n.com/205"><meta property="og:image" content="https://place-n.com/og/205.jpg?v=3"><meta property="og:image:width" content="800"><meta property="og:image:height" content="800"><meta property="og:locale" content="ar_SA"><meta name="twitter:card" content="summary"><link rel="canonical" href="https://place-n.com/205"><!--/og--><meta name="theme-color" content="#181C21"><link rel="icon" href="/favicon.ico?v=4" sizes="48x48"><link rel="icon" type="image/png" sizes="32x32" href="/favicon-32.png?v=4"><link rel="icon" type="image/png" sizes="96x96" href="/favicon-96.png?v=4"><link rel="icon" href="/favicon.svg?v=4" type="image/svg+xml"><link rel="apple-touch-icon" sizes="180x180" href="/apple-touch-icon.png?v=4">
+<base href="/"><script>try{if(sessionStorage.getItem("pn-intro"))document.documentElement.classList.add("no-intro");else sessionStorage.setItem("pn-intro","1")}catch(e){}</script><title>شقة 205 | place.n</title><!--og--><meta name="description" content="غرفة وصالة · حي السلطانة، بريدة · ★ 10 (48 تقييم) — شاهد التواريخ المتاحة واحجز عبر جاذر إن."><meta property="og:site_name" content="place.n"><meta property="og:title" content="شقة 205 | place.n"><meta property="og:description" content="غرفة وصالة · حي السلطانة، بريدة · ★ 10 (48 تقييم) — شاهد التواريخ المتاحة واحجز عبر جاذر إن."><meta property="og:type" content="website"><meta property="og:url" content="https://place-n.com/205"><meta property="og:image" content="https://place-n.com/og/205.jpg?v=3"><meta property="og:image:width" content="800"><meta property="og:image:height" content="800"><meta property="og:locale" content="ar_SA"><meta name="twitter:card" content="summary"><link rel="canonical" href="https://place-n.com/205"><!--/og--><meta name="theme-color" content="#181C21"><link rel="icon" href="/favicon.ico?v=5" sizes="48x48"><link rel="icon" type="image/png" sizes="32x32" href="/favicon-32.png?v=5"><link rel="icon" type="image/png" sizes="96x96" href="/favicon-96.png?v=5"><link rel="icon" href="/favicon.svg?v=5" type="image/svg+xml"><link rel="apple-touch-icon" sizes="180x180" href="/apple-touch-icon.png?v=5">
 <meta data-src="" name="claude:viewport-fit-sides" content="cover">
 <link data-src="" rel="preconnect" href="https://fonts.googleapis.com">
 <link data-src="" rel="stylesheet" href="https://fonts.googleapis.com/css2?family=Alexandria:wght@200;300;400;500&amp;family=IBM+Plex+Sans+Arabic:wght@300;400;500;600&amp;display=swap">
